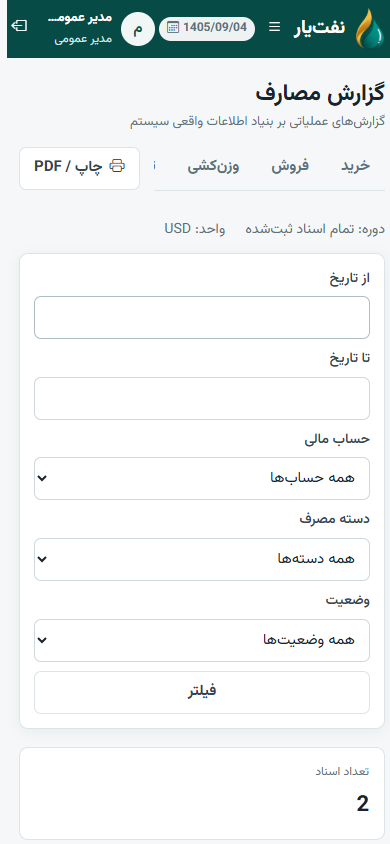
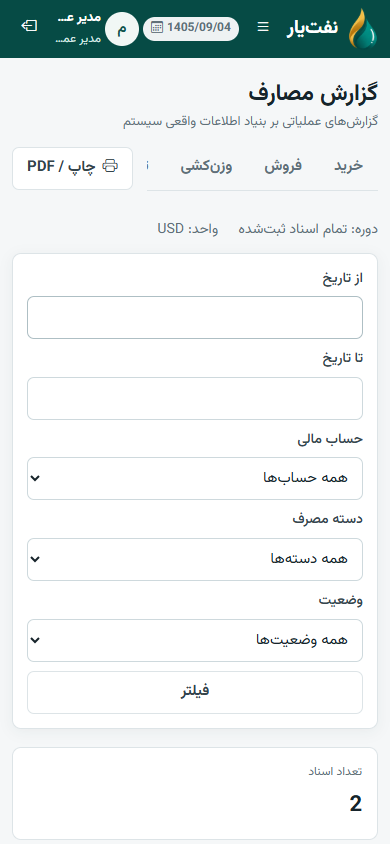
Keep logout visible beside long mobile profile names

diff --git a/resources/css/app.css b/resources/css/app.css
@@ -301,8 +301,9 @@ label > input[type="checkbox"] { flex: none; accent-color: var(--primary); }
     .head-actions .btnx { flex: 1; }
     .topbar { gap: 5px; padding-inline: 10px; }
     .brand-sub { display: none; }
-    .top-actions { gap: 4px; }
-    .profile-meta { max-width: 70px; }
+    .top-actions, .top-actions .profile { min-inline-size: 0; gap: 4px; }
+    .topbar .mobile-menu, .top-actions > .badge, .top-actions > form, .top-actions .avatar { flex-shrink: 0; }
+    .profile-meta { min-inline-size: 0; max-width: 70px; }
     .profile-name, .profile-role { white-space: nowrap; overflow: hidden; text-overflow: ellipsis; }
     .top-actions > .badge { font-size: 12px; }
     .brand-title { font-size: 19px; }
@@ -326,6 +327,9 @@ label > input[type="checkbox"] { flex: none; accent-color: var(--primary); }
     .login-panel { padding: 25px 20px 34px; }
     .login-logo { margin-bottom: 18px; }
     .login-logo img { width: 128px; }
+}
+@media (max-width: 374px) {
+    .top-actions .avatar { display: none; }
 }
 @media print {
     .topbar, .no-print, .filters, .toolbar-panel, .head-actions, .paginationx, button, .btnx { display: none !important; }

diff --git a/docs/owner-review/second-acceptance/README.md b/docs/owner-review/second-acceptance/README.md
@@ -35,4 +35,10 @@
 - در گزارش مصارف، «چاپ / PDF» از دو سطر به یک سطر رسید. فیلتر محصول و تولید PDF بررسی شدند. شمار ردیفهای پنج گزارش دارای معلومات، در حالت نمایش و چاپ برابر بود.
 - آزمون کامل MySQL با ۴۰۱ آزمون و ۳٬۰۵۲ بررسی موفق بود. در SQLite تعداد ۳۹۶ آزمون و ۳٬۰۱۱ بررسی موفق بود؛ پنج آزمون اختصاصی MySQL در همان MySQL اجرا شدند. هر ۱۴ آزمون JavaScript و ساخت نهایی فایلهای وب موفق بودند.
 
-در هر دو نسخه و با نام نسبتاً طولانی کاربر آزمایشی، بخش خروج از حساب در سربرگ موبایل حدود ۷ پیکسل از عرض نمایش بیرون میرفت. این مورد در تصویرهای مقایسه ثبت شده است و مربوط به سربرگ قبلی است.
+### دکمهٔ خروج در موبایل
+
+در بازبینی تکمیلی، سربرگ با نام طولانی یک مدیر آزمایشی در Edge بررسی شد. در عرض ۳۹۰ پیکسل، دکمهٔ خروج در نسخهٔ `6536d9c` حدود ۷ پیکسل از لبه بیرون میرفت. پس از اصلاح، عرض صفحه همان ۳۹۰ پیکسل بود و تمام دکمهٔ ۳۸ پیکسلی با فاصلهٔ ۱۰ پیکسل از لبه دیده شد. با زدن دکمه، نشست پایان یافت. تصویر سربرگ دسکتاپ در عرض ۱۴۴۰ پیکسل در هر دو نسخه یکسان بود.
+
+| پیش از اصلاح | پس از اصلاح |
+| --- | --- |
+| ![سربرگ موبایل پیش از اصلاح](before/mobile-header.png) | ![سربرگ موبایل پس از اصلاح](after/mobile-header.png) |
